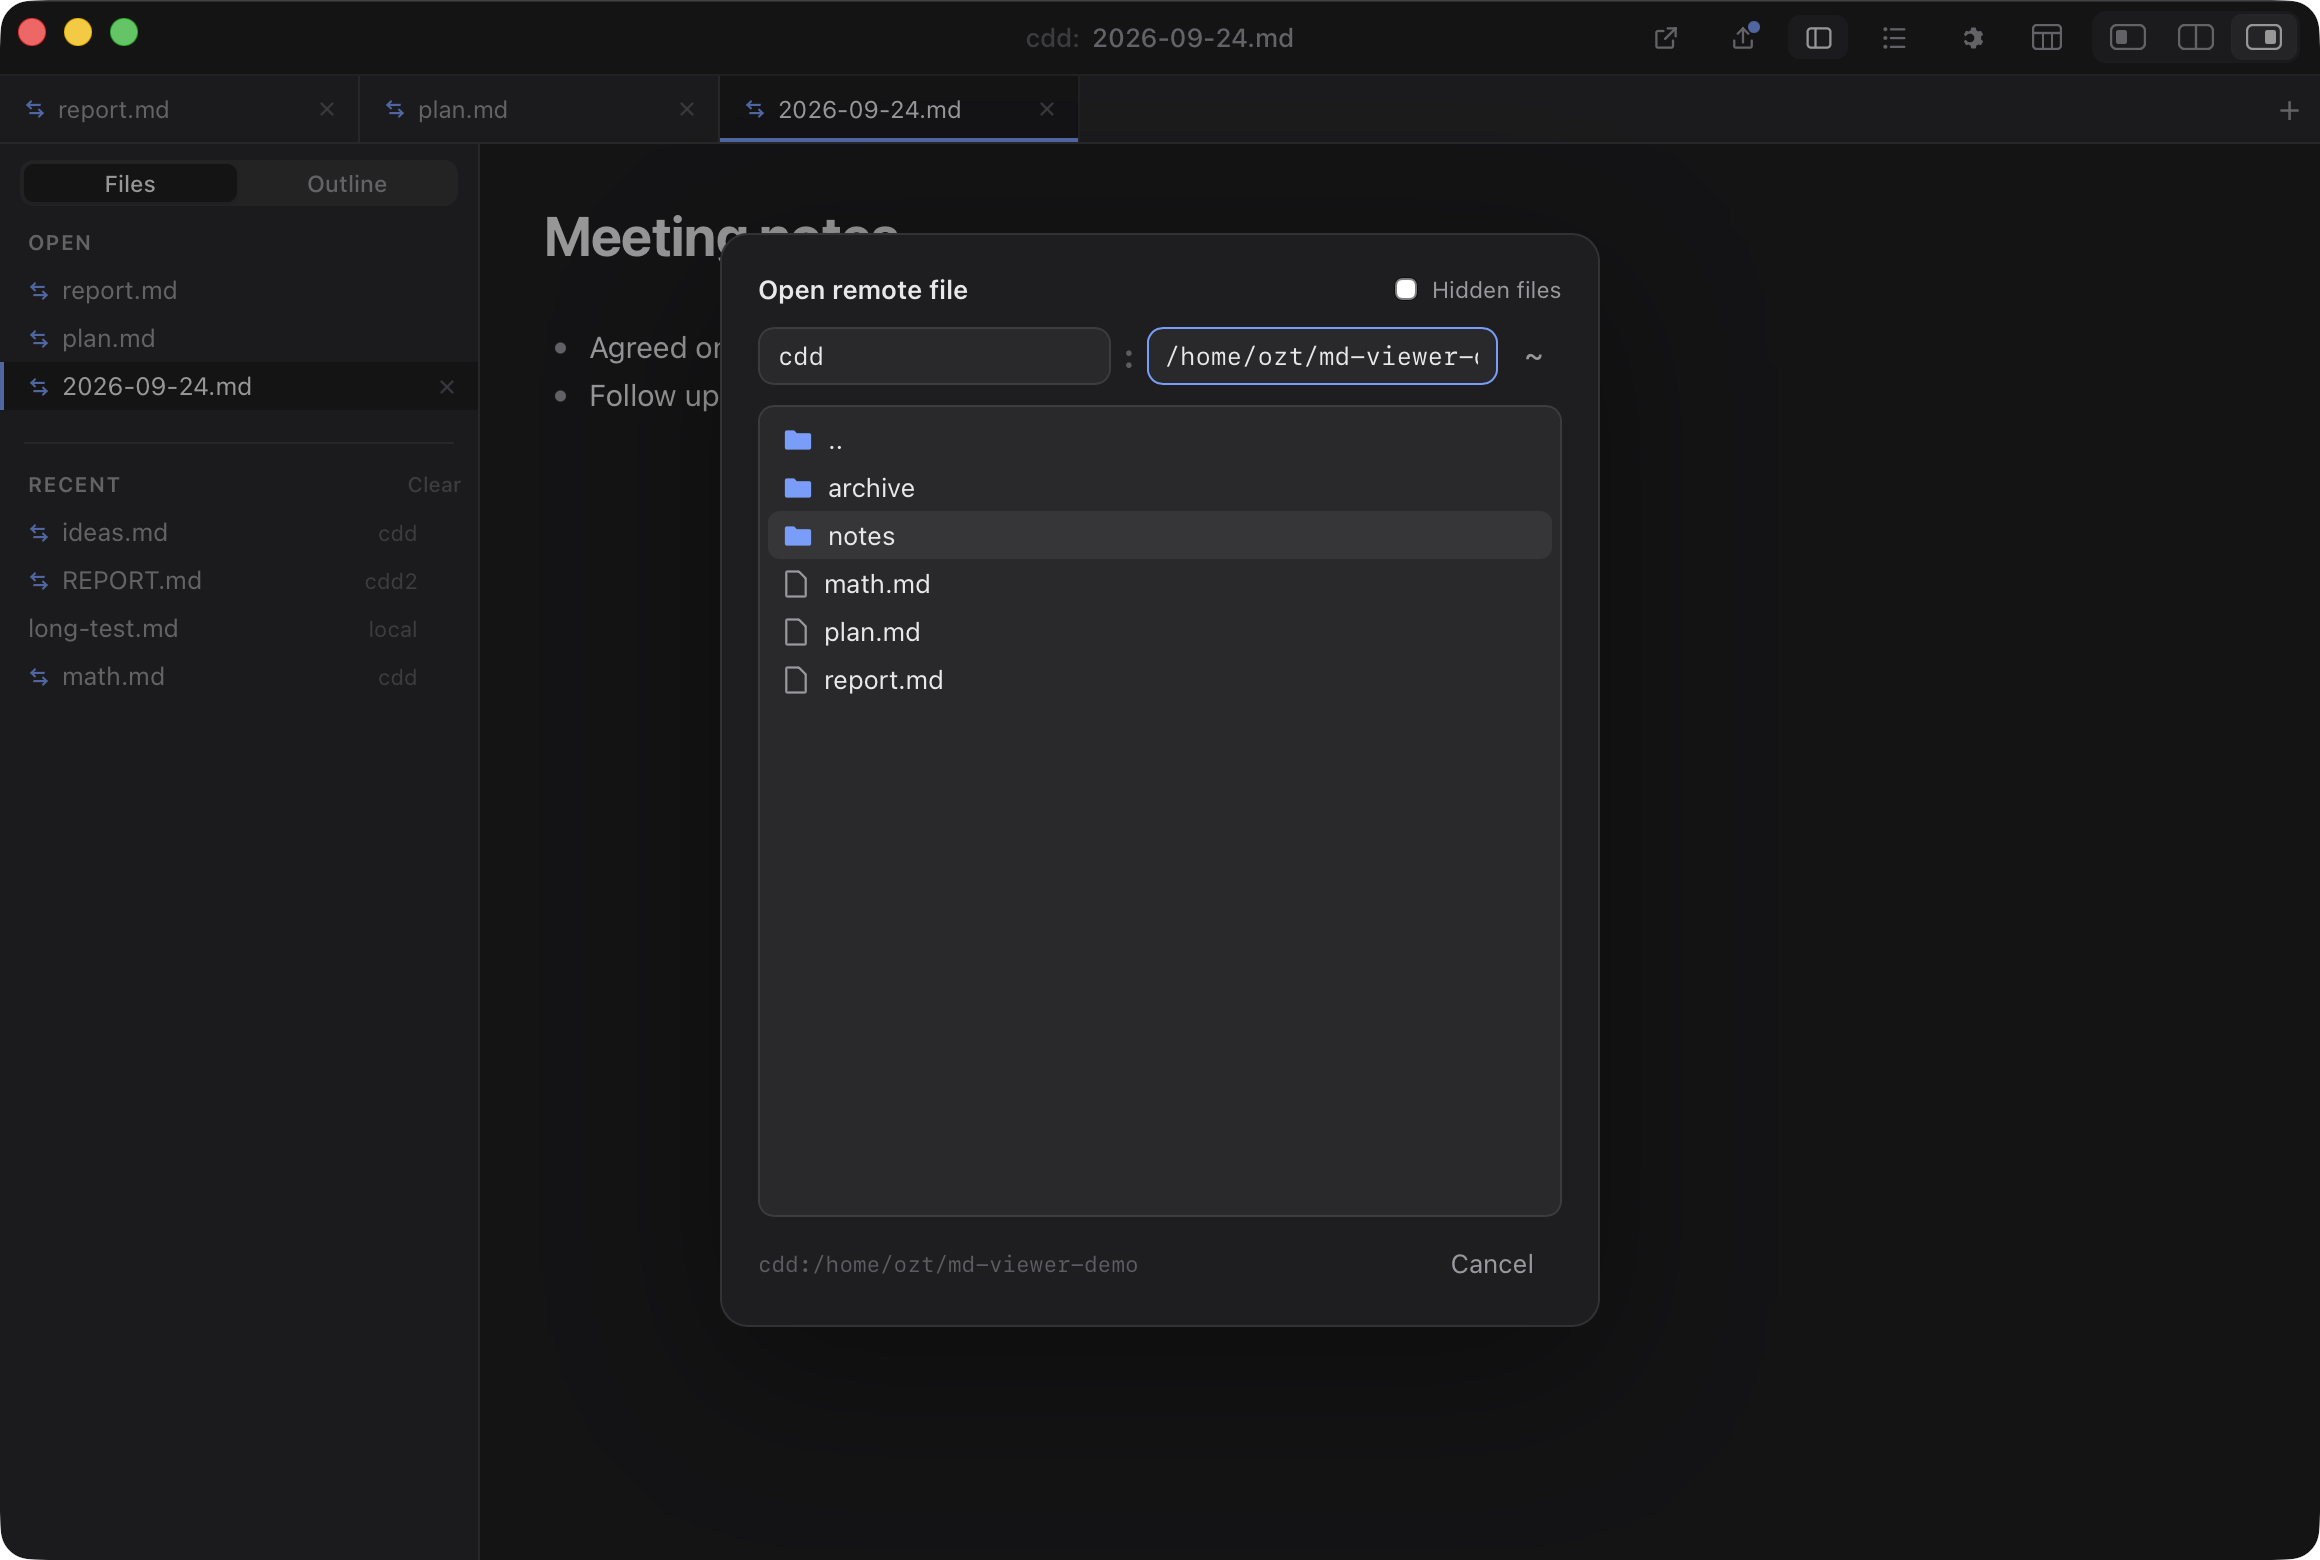
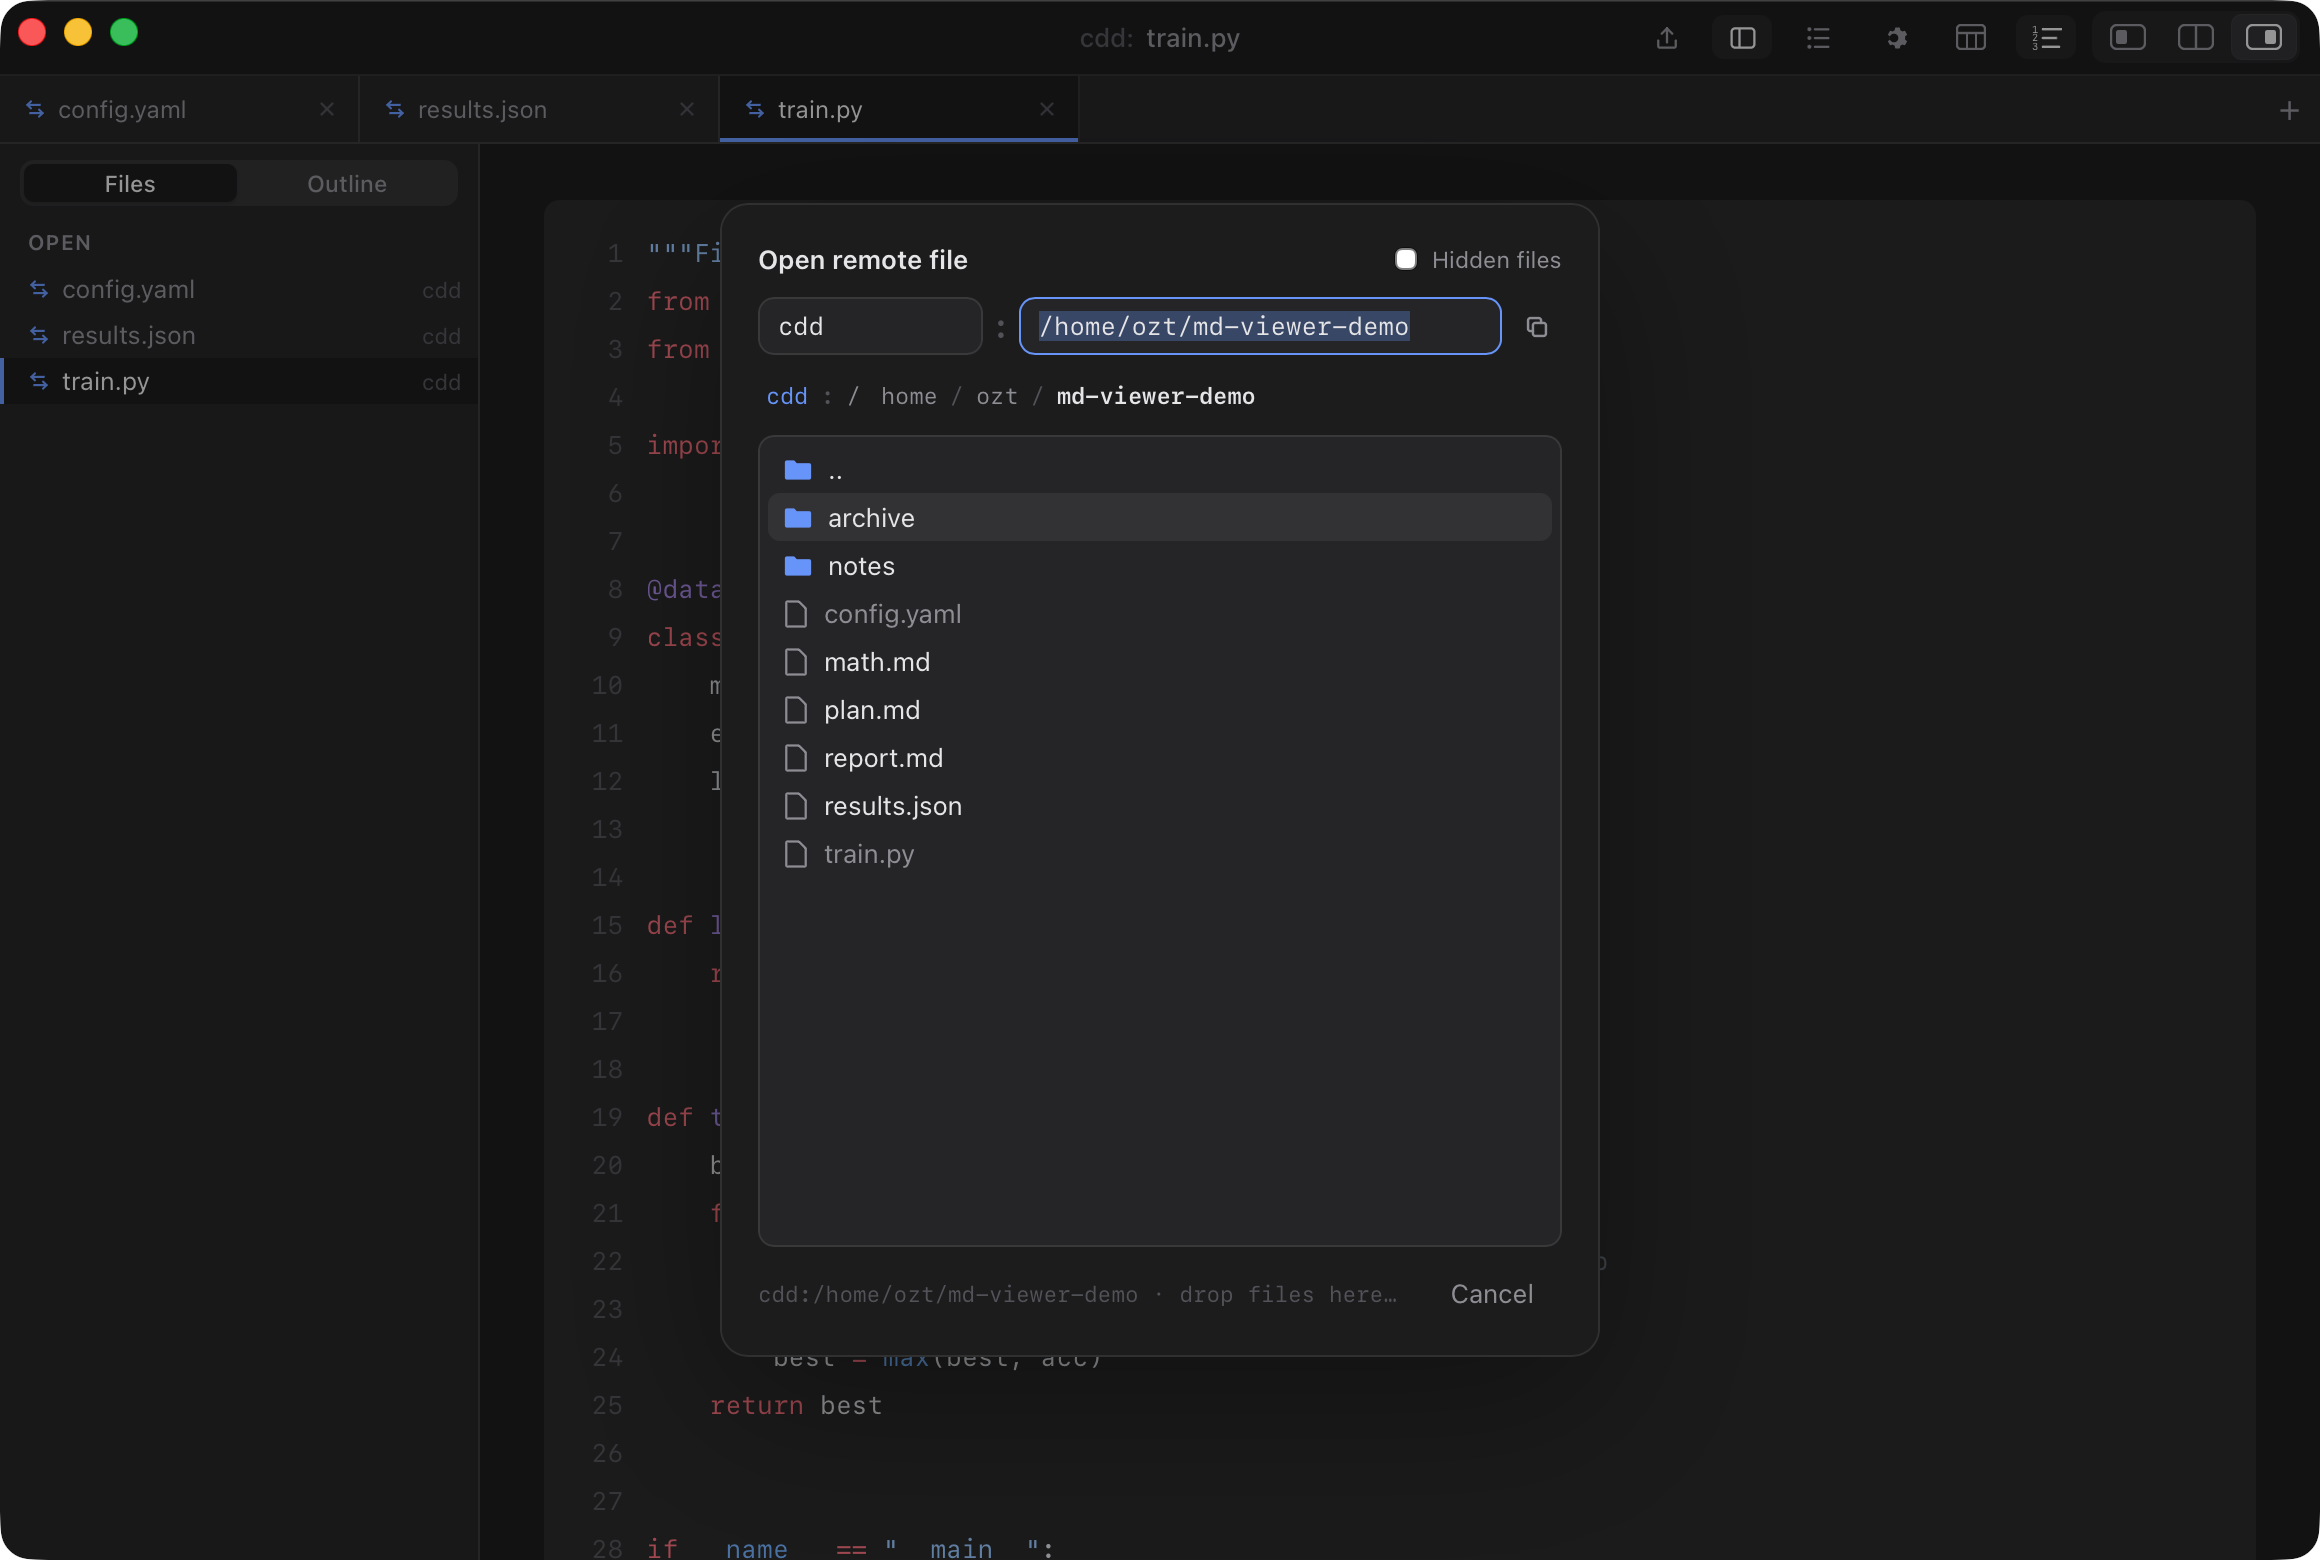
README: code viewer screenshot; refresh remote browser screenshot

diff --git a/README.md b/README.md
@@ -76,6 +76,8 @@ for what's new in each version.
 
 ![LaTeX math rendered with KaTeX](docs/math.png)
 
+![A Python file on a remote machine, highlighted with line numbers](docs/code.png)
+
 ## Remote files
 
 ![Remote file browser](docs/remote-browser.png)
